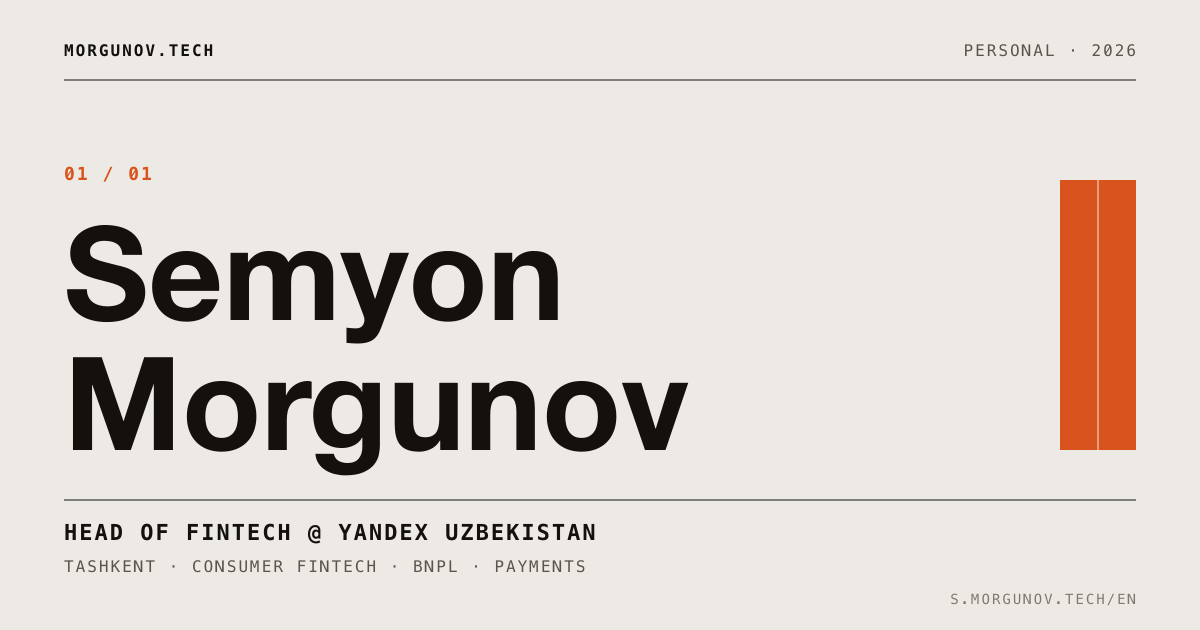
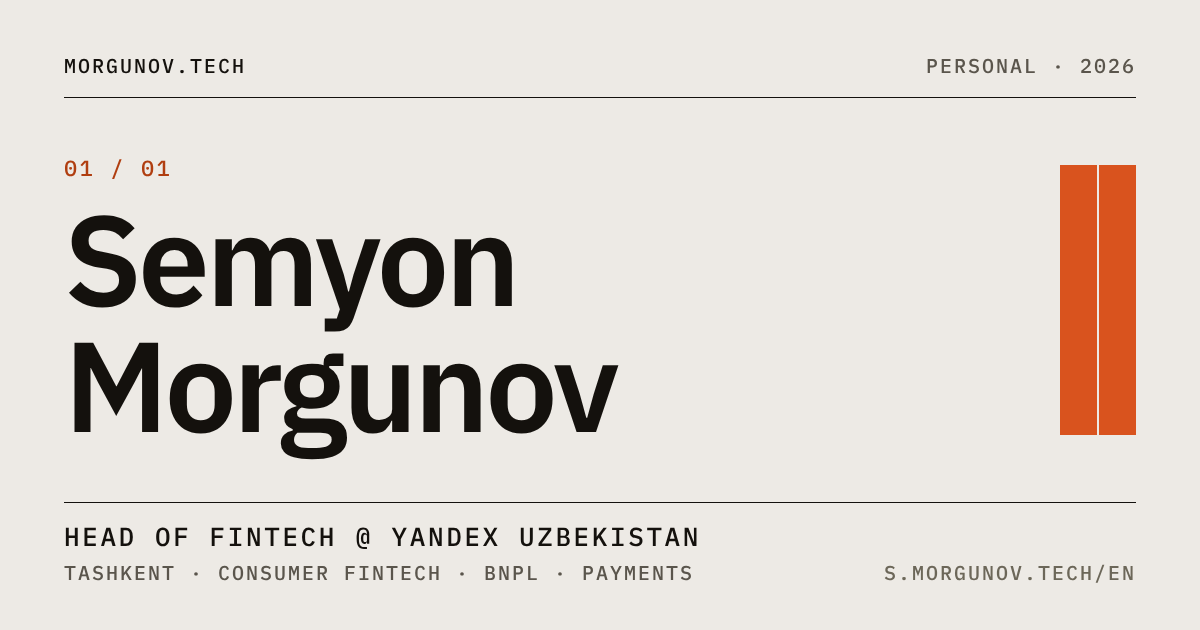
v1.4.1: карточки ссылок сайта — отрисовки общего шаблона (#68)
images/og-card-ru.png и og-card-en.png отрисованы из шаблона карточки дизайн-системы (карточки site-ru, site-en). Тексты, имена файлов и разметка те же. CLAUDE.md: карточки не рисуются руками.

Claude-Session: https://claude.ai/code/session_01L2ZRPFj8T4rzFs3WMdKZLZ

diff --git a/CHANGELOG.md b/CHANGELOG.md
@@ -2,6 +2,8 @@
 
 One entry per release, newest first. Conventions and architecture live in [CLAUDE.md](CLAUDE.md); this file is history. Served paths block it (`functions/_middleware.js`).
 
+- v1.4.1 — Карточки ссылок сайта отрисованы из общего шаблона (2026-11-25). Патч по SemVer: две картинки, разметка и адреса те же. `images/og-card-ru.png` и `images/og-card-en.png` — теперь отрисовки шаблона карточки из дизайн-системы (`templates/share-card`, карточки `site-ru` и `site-en`), того же, из которого сделаны карточки Fingerprint и Good Pass: ссылка на любую страницу morgunov.tech выглядит в ленте одинаково. Что изменилось на картинке: имя набрано IBM Plex Sans 500 вместо подставного жирного шрифта (в старой отрисовке Plex не загрузился, а жирнее 600 система не разрешает), подписи крупнее (не мельче 20px на холсте 1200×630), адрес сайта стоит в одной строке с нижней подписью. Тексты те же. Имена файлов не меняются: на них указывают документы в KV. `CLAUDE.md` записывает правило: карточки не рисуются руками, текст меняется в `cards.js` шаблона. Telegram и LinkedIn держат превью в своём кэше: для уже опубликованных ссылок картинка обновится после сброса (@WebpageBot, LinkedIn Post Inspector).
+
 - v1.4.0 — Общая шапка для сервисов семейства: сценарий в слое, знак сервиса, обязательность в гайде (2026-11-25). Минор по SemVer: слой получил новый файл и новый элемент, страницы сайта не меняются. Повод — проверка живых сервисов 25.11.2026: общий интерфейс повторял один из трёх. Found You несёт шапку сайта; Fingerprint и Good Pass берут из слоя только шрифты, токены и `base.css` и написали свои шапку, переключатели языка и темы, кнопки и футер (у Fingerprint тема — слово «THEME» рядом с названием, у Good Pass переключателей в шапке нет). Причин две, обе в этом репозитории: меню открывал только `script.js` сайта — сценария в `ds/v1` не было, сервису приходилось переносить его руками; гайд называл шапку «optional chrome» и разрешал взять только токены. **`ds/v1/chrome.js` (новый):** поведение шапки для сервисов — тема (четыре темы, ключ `theme-preference`), один контроллер для меню навигации, языка и темы, навигация по якорям. Это `script.js` без участков между метками `site-only:start` / `site-only:end` (английская копия страницы 404 и приветствие в консоли): файл собирает `scripts/build-chrome.mjs --write`, расхождение ловят `--check` в `scripts/check.sh` и `tests/chrome.test.mjs` — один источник и проверяемый близнец, как статические близнецы и критический CSS. **`script.js`:** только две метки-комментария вокруг своего кода, поведение то же. **`ds/v1/components.css`:** знак сервиса `.v4-service` — «MORGUNOV.TECH / ИМЯ» слева в полосе, семейное имя ведёт на s.morgunov.tech; на 640px и уже видно только имя сервиса. У самого сайта знака нет. **`ds/v1/USAGE.md`:** раздел «Top bar (optional chrome)» заменён на «Service chrome (required for a family service)»: что обязано повторяться и в каком порядке (ссылка «к содержимому», оболочка, полоса, знак, навигация не длиннее пяти ссылок, язык, тема у самого края, футер), готовая разметка для вставки и английские подписи; «только токены» — для страницы, которую ставят у себя другие люди, и для печати; в CSP потребителя добавлен `script-src`. **`scripts/version-stamp.py`:** `chrome.js` получает `?v=`. **Проверка:** страница, собранная из разметки гайда, с `chrome.js` на 1280 и 375px — меню темы и языка, выбор темы и его сохранение, одно открытое меню, Esc, клавиатура, щелчок снаружи, переход по якорю с фокусом на разделе, на телефоне «Меню», язык и тема в одну строку с областью нажатия 44px, без горизонтальной прокрутки и ошибок в консоли. **Не сделано здесь:** замена шапок в Fingerprint и Good Pass — отдельные PR в их репозитории, после этого релиза.
 
 - v1.3.0 — Дизайн-слой после аудита: одна шкала подписей, чтение с телефона, состояния кнопки (2026-11-25). Минор по SemVer: слой получил новые состояния кнопки и новую шкалу подписей, вид всех страниц меняется; карта страниц, якоря, разметка и контент те же. Источник — аудит дизайн-системы 2026-11-24 и её облегчение 2026-11-25 (Claude Design, файлы `css/patches.css` и `tokens.json` системы): правки, которые жили там поверх копии `ds/v1`, перенесены в сами правила, без отдельного слоя «патчей». **`ds/v1/tokens.css`:** `--v4-label-size` 11px → 12px, `--v4-label-xs-size` 10px → 12px, `--v4-label-xs-tracking` 0.12em → 0.1em — у подписи один размер, один трекинг и один вес; имена `label-xs` остаются, их читают стили и потребители. На странице два стиля подписи: капс гротеском — хром и управление (навигация, меню, футер, единицы в статистике), капс моноширинным — подписи к данным (теги, номера разделов, шапки карточек, термины). **`ds/v1/components.css`:** ссылки навигации в весе подписи на любой ширине (раньше — только в телефонном меню); у `.v4-btn` появились нажатие (`:active`), недоступность (`:disabled` и `aria-disabled="true"` — пунктирная рамка цветом `--v4-dim`, читается без цвета и в высоком контрасте) и занятость (`.is-busy` — пульсирующий квадрат перед подписью); `@media (hover: none)` — на устройстве без наведения hover ничего не красит, нажатая пальцем кнопка не остаётся инвертированной; `.v4-prose p`, `p.v4-prose` и `.v4-list li` не длиннее 62ch (на 1280px абзац шёл 1168px, 156 знаков в строке); хеш сборки в футере — обычным весом; на телефоне (≤640px) `body.v4-page` 16px вместо 13.5px, `.v4-terms` 14px. **`styles.css`:** карточки `.v4-product` и `.v4-use` больше не реагируют на наведение — это не элементы управления, ими остаются ссылка в названии и кнопка (правила `:hover` и их пары для высокого контраста сняты); цена тарифа — в размер названия тарифа (22px вместо размера подписи: была самым мелким текстом карточки), единица остаётся подписью; дата и строка источника на /notes (`.v4-note-date`, `.v4-note-meta`) и приписка в статистике (`.v4-stat-aside`) — обычный моноширинный 12px без капса: это данные, а не подписи, единственной подписью записи остаётся тег; моноширинный капс `.v4-hero-meta`, `.v4-spec dt`, `.v4-collab-clients`, `.v4-article-eyebrow` — в весе подписи; тексты карточек, `.v4-contact-note`, `.v4-notes-intro` и `.v4-note-excerpt` не длиннее 62ch (строка клиентов на /collaborate — исключение: это подпись над линейкой); `code` в тексте карточек не мельче 12px; на телефоне текст карточек, контекст в карьере, `.v4-spec` и `.v4-contact-note` — 16px, роль, история проекта и имена клиентов — 14px, строка карьеры — в одну колонку (колонка периода в 130px оставляла контексту 195px, 19 знаков в строке), `.v4-h1` и `.v4-notes-title` ниже 377px уменьшаются (`clamp(32px, 10.6vw, 40px)`) и переносят слово, которое всё равно не влезло («Сотрудничество» на 320px), `.v4-article-title` тоже переносит. **Инлайновый критический CSS** девяти страниц и `functions/_lib/article-template.js` — три значения токенов; `?v=` перештампованы. **Замер** (страницы этого репозитория, 1280px, v1.2.12 → эта ветка): главная — текстовых стилей 17 → 11, видов мелкого капса 6 → 2, слов мельче 12px 15% → 0; /collaborate — стилей 18 → 13; /uses — 15 → 9; /notes — слов моноширинным капсом 39% → 8%, слов мельче 12px 50% → 0. На 375px: главная — стилей 17 → 10, слов мельче 12px 14% → 0. **Проверка:** вычисленные стили каждого элемента восьми статических страниц и /notes (RU и EN), шесть ширин от 320 до 1280px, темы light и high-contrast, совпали с эталоном «v1.2.12 + правки дизайн-системы поверх» — 21 696 элементов, 0 расхождений; состояния кнопки и карточки (нажатие, недоступность, занятость, касание) совпали с ним же. **Цена:** навигация главной (пять ссылок) переносится на вторую строку до ширины 751px, было до 711px. **Потребители `ds/v1`:** меняются значения внутри `/ds/v1/` — имена токенов и селекторы те же, поэтому это не `/ds/v2/`. Fingerprint берёт `tokens` и `base` прямо с origin и получит подписи 12px при следующей незакешированной загрузке (его пины `?v=` двигаются вручную); копии — Found You, статус-страница TofsDevOps, Lenses — получат PR от `ds-sync` в течение недели. `ds/v1/USAGE.md`: раздел «Captions and button states». **Не проверено:** наведение мышью — headless-браузер проверки отвечает `(hover: none)`, поэтому правила наведения для мыши проверены только с выключенным блоком `hover: none`; настоящие телефоны и программы чтения с экрана. **После слияния:** тег `v1.3.0` и GitHub Release (минор); `kv-push` не нужен — контент не менялся; синхронизация дизайн-системы — её `css/{base,components,pages}.css` и токены снова копия этого репозитория, `css/patches.css` там удаляется.

diff --git a/CLAUDE.md b/CLAUDE.md
@@ -46,7 +46,7 @@ about-me-page/
     ├── favicon.svg                # SVG favicon with initials "SM" (light scheme; also in site.webmanifest)
     ├── favicon-dark.svg           # Favicon for prefers-color-scheme: dark
     ├── icon-192.png, icon-512.png # PWA icons from site.webmanifest
-    ├── og-card-ru.png, og-card-en.png  # Share cards (og:image / twitter:image), per language
+    ├── og-card-ru.png, og-card-en.png  # Share cards (og:image / twitter:image), per language — renders of the design system's share-card template (cards site-ru, site-en), never drawn by hand
     └── uses/                      # /uses hardware photos, one webp per card (14)
 ```
 
@@ -194,6 +194,7 @@ together with check-sync before committing anything that touches CSS.
 
 - **Canonical URL:** `https://s.morgunov.tech/` — use this domain consistently everywhere. The apex `morgunov.tech` and `www.morgunov.tech` 301 to it through a Cloudflare Redirect Rule in the zone (outside the repo); the Pages project's technical host `about-me-page-cr2.pages.dev` and its previews get `X-Robots-Tag: noindex` — from `_headers` for static files, from `noindexOnTechnicalHost()` (`_lib/http.js`, applied in `_middleware.js`) for everything Functions build
 - OG/Twitter images and JSON-LD images must use **absolute URLs**
+- **Share cards are renders of one template.** `images/og-card-{ru,en}.png` come from the design system's `templates/share-card` (cards `site-ru`, `site-en`; rules in its `guidelines/IMAGERY.md`), like the cards of every family service — a link to any morgunov.tech page looks the same in a feed. To change a card: edit its text in the template's `cards.js`, render there, copy the PNG here. The file keeps its name (KV docs point at it), so Telegram and LinkedIn show the new picture only after their own cache is refreshed (@WebpageBot, Post Inspector)
 - `<meta name="theme-color">` set for both light and dark schemes
 - JSON-LD Person schema: keep `description`, `knowsAbout`, `worksFor`, `sameAs` and `email` in sync
 - `sitemap.xml` `lastmod` should be updated when content changes significantly
